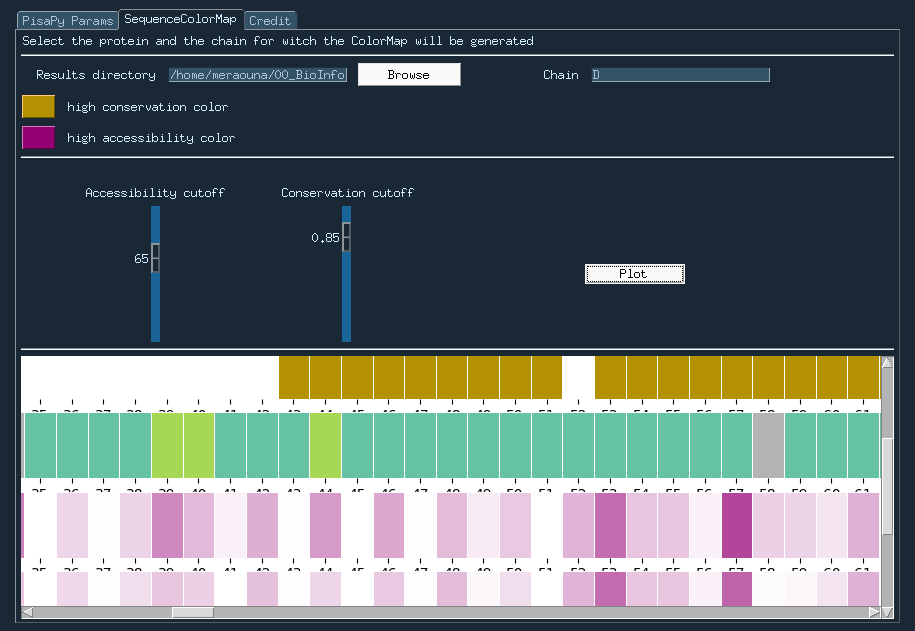
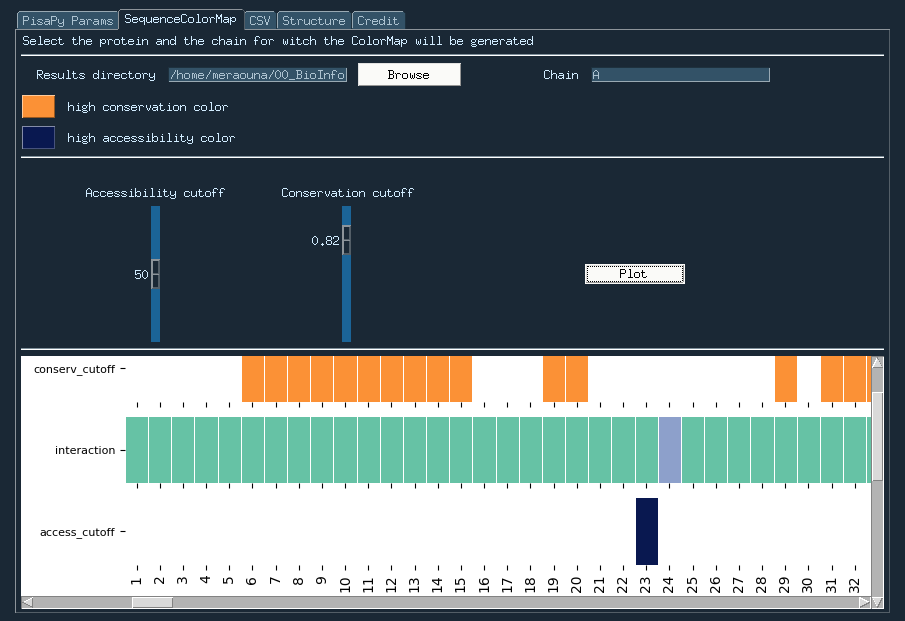
work in progress structure

diff --git a/scr/PisaPyUI.py b/scr/PisaPyUI.py
@@ -23,6 +23,15 @@ import numpy as np
 import SeqColorMap as scm
 import csv
 import traceback
+import plot as p
+from matplotlib.backends.backend_tkagg import FigureCanvasTkAgg
+
+
+def draw_figure(canvas, figure):
+    figure_canvas_agg = FigureCanvasTkAgg(figure, canvas)
+    figure_canvas_agg.draw()
+    figure_canvas_agg.get_tk_widget().pack(side='top', fill='both', expand=1)
+    return figure_canvas_agg
 
 
 def table_from_csv(filename):
@@ -136,7 +145,7 @@ def create_layouts():
 
         [sg.HorizontalSeparator()],
 
-        [sg.Column(column, size=(860, 230), scrollable=True)]
+        [sg.Column(column, size=(850,240), scrollable=True)]
 
     ]
 
@@ -200,14 +209,30 @@ def create_layouts():
     tab5 = [
 
         [sg.Text("Select CSV file to display"), sg.Input(key='-CSVF-'), sg.FileBrowse('Choose',
-            file_types=(("CSV Files","*.csv"),))],[sg.Button("Display", key='-DISTAB-', use_ttk_buttons=True)],
+            file_types=(("CSV Files","*.csv"),))],[sg.Button("Display", key='-DISTAB-', use_ttk_buttons=True),
+         sg.Text(' '*16+'The file must correspond to the Interaction Sheet')],
         [sg.Table(values=data, headings=header_list,
-            auto_size_columns=True, justification='left', num_rows=45, key='-TABLE-')]
+            auto_size_columns=True, max_col_width=25, justification='middle', num_rows=45, key='-TABLE-')]
+
+    ]
+
+    tab6 = [
+
+        [sg.Text("Select the result folder"),
+         sg.In(size=(25, 1), enable_events=True, key="-STRCT-"),
+         sg.FolderBrowse(size=(11, 1)),],
+        [sg.Radio('Show high conservation', "RADIO1", default=False)],
+        [sg.Radio('Show high accessibility', "RADIO1", default=False)],
+        [sg.Radio('Show high cons & acc', "RADIO1", default=True)],
+        [sg.Text('What proteins to show   '), sg.InputText(size=(25, 1), key="-PRTS-"),
+        sg.Text(' '*50), sg.Button('Show Structure', size=(14, 1), key='-PLOT-', use_ttk_buttons=True)],
+        [sg.HorizontalSeparator()],
+        [sg.Canvas(key='-CANVAS-')]
 
     ]
 
     layout = [[sg.TabGroup([[sg.Tab('PisaPy Params', tab1), sg.Tab('SequenceColorMap', tab3),
-        sg.Tab('CSV', tab5), sg.Tab('Credit', tab4)]])]] 
+        sg.Tab('Structure', tab6), sg.Tab('CSV', tab5), sg.Tab('Credit', tab4)]])]] 
 
     return sg.Window("PisaPy", layout, ttk_theme=ttk_style, finalize=True)
 
@@ -304,6 +329,10 @@ def running():
                 else:
                     data, header_list = table_from_csv(values['-CSVF-'])
                     window['-TABLE-'].update(values=data)
+
+            if event == '-PLOT-':
+                fig = p.the_plot()
+                fig_canvas_agg = draw_figure(window['-CANVAS-'].TKCanvas, fig)
 
         window.close()
     except Exception as e:

diff --git a/scr/SeqColorMap.py b/scr/SeqColorMap.py
@@ -72,8 +72,12 @@ def colormap_sequence(conserv_df, conserv_cutoff, interaction_df, access_solo_df
     ax5.set_yticklabels(ax5.get_yticklabels(), rotation=0, fontsize=8)
     ax6.set_yticklabels(ax6.get_yticklabels(), rotation=0, fontsize=8)
 
-    #a = ScrollableWindow(fig)
-    #plt.show()
+    ax1.set_xticklabels(ax1.get_xticklabels(), visible=False)
+    ax2.set_xticklabels(ax2.get_xticklabels(), visible=False)
+    ax3.set_xticklabels(ax3.get_xticklabels(), visible=False)
+    ax4.set_xticklabels(ax4.get_xticklabels(), visible=False)
+    ax5.set_xticklabels(ax5.get_xticklabels(), visible=False)
+
     plt.savefig(path+chain+'_ColorMap.png')
 
 def cutoff_tables(res_path, cons_cutoff, acc_cutoff, chain, col1, col2):
@@ -116,7 +120,7 @@ def cutoff_tables(res_path, cons_cutoff, acc_cutoff, chain, col1, col2):
     for r in df3.iterrows():
         if (int(r[1]['res']) <= int(list(df2['res'])[-1])):
             dico['conservation'].append(r[1]['conservation score'])
-            if r[1]['conservation score'] > 0.8:
+            if r[1]['conservation score'] > cons_cutoff:
                 dico['conserv_cutoff'].append(1)
             else:
                 dico['conserv_cutoff'].append(0)
@@ -126,11 +130,14 @@ def cutoff_tables(res_path, cons_cutoff, acc_cutoff, chain, col1, col2):
                 dico['interaction'].append(0)
             dico['access_solo'].append(float(df2.loc[(df2['res'] == r[1]['res'])]['solo access']))
             dico['access_complex'].append(float(df2.loc[(df2['res'] == r[1]['res'])]['complex access']))
-            if float(df2.loc[(df2['res'] == r[1]['res'])]['acc_pourcentage']) > 70:
+            if float(df2.loc[(df2['res'] == r[1]['res'])]['acc_pourcentage']) > acc_cutoff:
                 dico['access_cutoff'].append(1)
             elif float(df2.loc[(df2['res'] == r[1]['res'])]['solo access']) != 0:
                 if (df2['solo access'].max()/float(df2.loc[(df2['res'] == r[1]['res'])]['solo access'])) < 1.6:
-                    dico['access_cutoff'].append(1)
+                    if float(df2.loc[(df2['res'] == r[1]['res'])]['acc_pourcentage']) > acc_cutoff/3:
+                        dico['access_cutoff'].append(1)
+                    else:
+                        dico['access_cutoff'].append(0)
                 else:
                     dico['access_cutoff'].append(0)
             else:
@@ -149,8 +156,6 @@ def cutoff_tables(res_path, cons_cutoff, acc_cutoff, chain, col1, col2):
     access_trio_df = df5_transposed.iloc[[3]]
     diff_access = df5_transposed.iloc[[4]]
     prot = res_path.split('/')[-2].split('_')[0]
-    print(res_path)
-    print(prot)
     inter_chains = list(df1['chain2'].unique())
 
     colors = ['white', col1]

diff --git a/scr/Auto_Mafft.py b/scr/Auto_Mafft.py
@@ -29,6 +29,27 @@ from selenium.webdriver.common.by import By
 from selenium.webdriver.support import expected_conditions as EC
 
 
+def check_exists_by_xpath(xpath, driver):
+    """
+    The function to check if an element is present on the webdriver.
+
+    Parameters
+    ----------
+    driver : selenium webdriver
+    name : string
+        the name of the element
+
+    Returns
+    -------
+    boolean
+    """
+    try:
+        driver.find_element_by_xpath("//*[contains(text(),'"+xpath+"')]")
+    except NoSuchElementException:
+        return False
+    return True
+
+
 def getDownLoadedFileName(waitTime, driver):
     """
     function made by supputuri
@@ -112,6 +133,9 @@ def download_alignment(driver, query_file, RES_PATH):
     driver.switch_to.frame("aframe")
 
     print("3- Downloading the MAFFT alignment :")
+
+    while(not check_exists_by_xpath('Fasta format', driver)):
+        pass
 
     driver.find_element_by_xpath("//*[contains(text(),'Fasta format')]").click()
 

diff --git a/scr/plot.py b/scr/plot.py
@@ -1,0 +1,17 @@
+#!/usr/bin/env python
+from matplotlib.ticker import NullFormatter
+import matplotlib.pyplot as plt
+import numpy as np
+from matplotlib.backends.backend_tkagg import FigureCanvasTkAgg
+import PySimpleGUI as sg
+import matplotlib
+matplotlib.use('TkAgg')
+
+def the_plot():
+    """
+    """
+    fig = matplotlib.figure.Figure(figsize=(5, 4), dpi=100)
+    t = np.arange(0, 3, .01)
+    fig.add_subplot(111).plot(t, 2 * np.sin(2 * np.pi * t))
+
+    return fig
